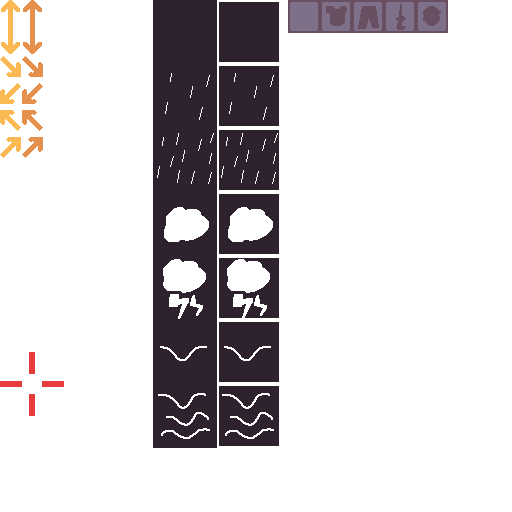
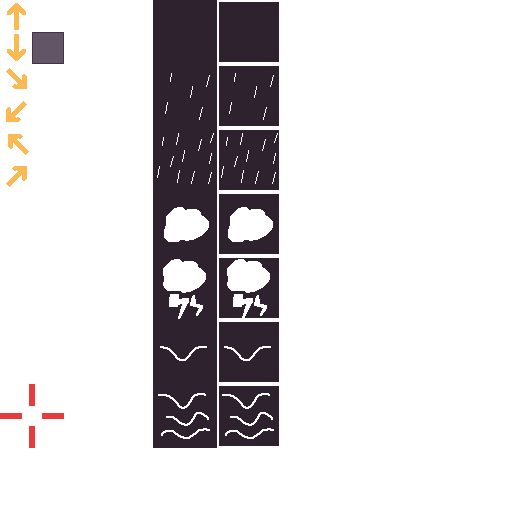
v0.6.017

Changed region(s): [[0.0, 0.0, 0.125, 0.375], [0.5625, 0.0, 0.875, 0.0625], [0.0, 0.6875, 0.125, 0.875]]

diff --git a/gamestream_flutter/lib/isometric/ui/columns/build_column_selected_node.dart b/gamestream_flutter/lib/isometric/ui/columns/build_column_selected_node.dart
@@ -58,7 +58,6 @@ Widget buildEditorSelectedNode() =>
                 left: 27 + _shiftX,
                 action: GameEditor.cursorZDecrease,
                 iconType: IconType.Arrows_Down_Yellow,
-                iconTypeMouseOver: IconType.Arrows_Down_Orange,
                 hint: "Shift + Arrow Down",
               ),
               buildPositionedIconArrow(
@@ -66,7 +65,6 @@ Widget buildEditorSelectedNode() =>
                 left: 3 + _shiftY,
                 action: GameEditor.cursorRowDecrease,
                 iconType: IconType.Arrows_North_Yellow,
-                iconTypeMouseOver: IconType.Arrows_North_Orange,
                 hint: "Arrow Up",
               ),
               // Positioned(
@@ -87,7 +85,6 @@ Widget buildEditorSelectedNode() =>
                 left: 50 + _shiftX,
                 action: GameEditor.cursorColumnDecrease,
                 iconType: IconType.Arrows_East_Yellow,
-                iconTypeMouseOver: IconType.Arrows_East_Orange,
                 hint: "Arrow Right",
               ),
               // Positioned(
@@ -114,7 +111,6 @@ Widget buildEditorSelectedNode() =>
                 left: 50 + _shiftX,
                 action: GameEditor.cursorRowIncrease,
                 iconType: IconType.Arrows_South_Yellow,
-                iconTypeMouseOver: IconType.Arrows_South_Orange,
                   hint: "Arrow Down"
               ),
               // Positioned(
@@ -135,7 +131,6 @@ Widget buildEditorSelectedNode() =>
                   left: 27 + _shiftX,
                   action: GameEditor.cursorZIncrease,
                   iconType: IconType.Arrows_Up_Yellow,
-                  iconTypeMouseOver: IconType.Arrows_Up_Orange,
                   hint: "Arrow Down"
               ),
               // Positioned(
@@ -158,17 +153,24 @@ Widget buildEditorSelectedNode() =>
               //   //     hint: "Shift + Arrow Up"
               //   // )),
               // ),
-              Positioned(
-                top: 50 + _shiftY,
-                left: 0 + _shiftX,
-                child: onPressed(
+              buildPositionedIconArrow(
+                  top: 50 + _shiftY,
+                  left: 0 + _shiftX,
                   action: GameEditor.cursorZIncrease,
-                  child: onMouseOver(builder: (BuildContext context, bool mouseOver) => GameUI.buildAtlasIconType(
-                      mouseOver ? IconType.Arrows_West_Orange : IconType.Arrows_West_Yellow
-                  )),
-                  hint: "Arrow Left",
-                ),
+                  iconType: IconType.Arrows_West_Yellow,
+                  hint: "Arrow Left"
               ),
+              // Positioned(
+              //   top: 50 + _shiftY,
+              //   left: 0 + _shiftX,
+              //   child: onPressed(
+              //     action: GameEditor.cursorZIncrease,
+              //     child: onMouseOver(builder: (BuildContext context, bool mouseOver) => GameUI.buildAtlasIconType(
+              //         mouseOver ? IconType.Arrows_West_Orange : IconType.Arrows_West_Yellow
+              //     )),
+              //     hint: "Arrow Left",
+              //   ),
+              // ),
             ],
           ),
         ),
@@ -181,7 +183,6 @@ Widget buildPositionedIconArrow({
   required double left,
   required Function action,
   required int iconType,
-  required int iconTypeMouseOver,
   required String hint,
 }) =>
   Positioned(
@@ -189,9 +190,12 @@ Widget buildPositionedIconArrow({
     left: left,
     child: onPressed(
       action: action,
-      child: onMouseOver(builder: (BuildContext context, bool mouseOver) => GameUI.buildAtlasIconType(
-          mouseOver ? iconTypeMouseOver : iconType
-      )),
+      child: onMouseOver(builder: (BuildContext context, bool mouseOver) =>
+          GameUI.buildAtlasIconType(
+            iconType,
+            color: mouseOver ? Colors.black38.value : Colors.white.value,
+          )
+      ),
       hint: hint,
     ),
   );

diff --git a/gamestream_flutter/lib/game_inventory_ui.dart b/gamestream_flutter/lib/game_inventory_ui.dart
@@ -14,8 +14,7 @@ class GameInventoryUI {
   static const Equipped_Item_Scale = Slot_Scale * Engine.GoldenRatio_1_618;
   static const Columns_Per_Row = 7;
   static const Inventory_Width = Slot_Size * Slot_Scale * Columns_Per_Row;
-
-  static final atlasIconSlotEmpty = buildAtlasIconSlotEmpty();
+  static final atlasIconSlotEmpty = GameUI.buildIconSlotEmpty();
 
   static Widget buildInventoryUI() =>
       GameUI.buildDialog(
@@ -259,56 +258,6 @@ class GameInventoryUI {
         srcWidth: Slot_Size,
         srcHeight: Slot_Size,
         scale: scale,
-      );
-
-  static Widget buildAtlasIconSlotEmpty() =>
-      Engine.buildAtlasImage(
-        image: GameImages.atlasIcons,
-        srcX: 288,
-        srcY: 0,
-        srcWidth: Slot_Size,
-        srcHeight: Slot_Size,
-        scale: Slot_Scale,
-      );
-
-  static Widget buildAtlasIconSlotArmour() =>
-      Engine.buildAtlasImage(
-        image: GameImages.atlasIcons,
-        srcX: 320,
-        srcY: 0,
-        srcWidth: Slot_Size,
-        srcHeight: Slot_Size,
-        scale: 1.0,
-      );
-
-  static Widget buildAtlasIconSlotLegs() =>
-      Engine.buildAtlasImage(
-        image: GameImages.atlasIcons,
-        srcX: 352,
-        srcY: 0,
-        srcWidth: Slot_Size,
-        srcHeight: Slot_Size,
-        scale: 1.0,
-      );
-
-  static Widget buildAtlasIconSlotWeapon() =>
-      Engine.buildAtlasImage(
-        image: GameImages.atlasIcons,
-        srcX: 384,
-        srcY: 0,
-        srcWidth: Slot_Size,
-        srcHeight: Slot_Size,
-        scale: 1.0,
-      );
-
-  static Widget buildAtlasIconSlotHead() =>
-      Engine.buildAtlasImage(
-        image: GameImages.atlasIcons,
-        srcX: 416,
-        srcY: 0,
-        srcWidth: Slot_Size,
-        srcHeight: Slot_Size,
-        scale: 1.0,
       );
 
   static Widget buildPositionedContainerItemTypeInformation(int itemType){

diff --git a/gamestream_flutter/lib/game_atlas.dart b/gamestream_flutter/lib/game_atlas.dart
@@ -49,35 +49,27 @@ class AtlasItems {
 
 class AtlasIcons {
 
+  static const Size = 32.0;
+
   static double getSrcX(int itemType) => const <int, double> {
-    IconType.Home: 44,
-    IconType.Fullscreen: 93,
-    IconType.Zoom: 48,
+    IconType.Zoom: Size * 1,
+    IconType.Home: Size * 2,
+    IconType.Fullscreen: Size * 3,
+    IconType.Slot: Size * 1,
   }[itemType] ?? 0;
 
   static double getSrcY(int itemType) => const  <int, double> {
-    IconType.Arrows_Up_Yellow: 0,
-    IconType.Arrows_Down_Yellow: 26,
-    IconType.Arrows_North_Yellow: 110,
-    IconType.Arrows_East_Yellow: 137,
-    IconType.Arrows_West_Yellow: 83,
-    IconType.Arrows_South_Yellow: 56,
-    IconType.Arrows_Up_Orange: 0,
-    IconType.Arrows_Down_Orange: 26,
-    IconType.Arrows_North_Orange: 110,
-    IconType.Arrows_East_Orange: 137,
-    IconType.Arrows_West_Orange: 83,
-    IconType.Arrows_South_Orange: 56,
+    IconType.Arrows_Up_Yellow: Size * 0,
+    IconType.Arrows_Down_Yellow: Size * 1,
+    IconType.Arrows_North_Yellow: Size * 2,
+    IconType.Arrows_East_Yellow: Size * 3,
+    IconType.Arrows_West_Yellow: Size * 4,
+    IconType.Arrows_South_Yellow: Size * 5,
     IconType.Home: 0,
     IconType.Fullscreen: 0,
-    IconType.Zoom: 48,
-    IconType.Slot: 64,
+    IconType.Zoom: 0,
+    IconType.Slot: Size * 1,
   }[itemType] ?? 0;
-
-  static double getSize(int itemType) => const <int, double> {
-    IconType.Home: 48,
-    IconType.Fullscreen: 48,
-  }[itemType] ?? 32;
 }
 
 class AtlasNodeX {

diff --git a/gamestream_flutter/lib/game_render.dart b/gamestream_flutter/lib/game_render.dart
@@ -1104,7 +1104,7 @@ class GameRender {
         canvas: canvas,
         image: GameImages.atlasIcons,
         srcX: 0,
-        srcY: 224,
+        srcY: 256,
         srcWidth: 64,
         srcHeight: 64,
         dstX: GameIO.getCursorScreenX(),
@@ -1118,7 +1118,7 @@ class GameRender {
       canvas: canvas,
       image: GameImages.atlasIcons,
       srcX: 0,
-      srcY: 288,
+      srcY: 320,
       srcWidth: 64,
       srcHeight: 64,
       dstX: GameIO.getCursorScreenX(),
@@ -1127,10 +1127,9 @@ class GameRender {
     );
   }
 
-
   static void canvasRenderCursorCrossHair(ui.Canvas canvas, double range){
     const srcX = 0;
-    const srcY = 160;
+    const srcY = 192;
     Engine.renderExternalCanvas(
         canvas: canvas,
         image: GameImages.atlasIcons,
@@ -1179,7 +1178,7 @@ class GameRender {
 
   static void canvasRenderCursorCrossHairRed(ui.Canvas canvas, double range){
     const srcX = 0;
-    const srcY = 352;
+    const srcY = 384;
     Engine.renderExternalCanvas(
         canvas: canvas,
         image: GameImages.atlasIcons,

diff --git a/gamestream_flutter/lib/game_ui.dart b/gamestream_flutter/lib/game_ui.dart
@@ -285,14 +285,18 @@ class GameUI {
           child: buildAtlasIconType(IconType.Home)
       );
 
-  static Widget buildAtlasIconType(int iconType, {double scale = 1}) =>
+  static Widget buildIconSlotEmpty() =>
+      buildAtlasIconType(IconType.Slot, scale: GameInventoryUI.Slot_Scale);
+
+  static Widget buildAtlasIconType(int iconType, {double scale = 1, int color = 1}) =>
       Engine.buildAtlasImage(
         image: GameImages.atlasIcons,
         srcX: AtlasIcons.getSrcX(iconType),
         srcY: AtlasIcons.getSrcY(iconType),
-        srcWidth: AtlasIcons.getSize(iconType),
-        srcHeight: AtlasIcons.getSize(iconType),
+        srcWidth: AtlasIcons.Size,
+        srcHeight: AtlasIcons.Size,
         scale: scale,
+        color: color,
       );
 
   static Widget buildAtlasItemType(int itemType, {double scale = 1}) =>

diff --git a/gamestream_flutter/lib/enums/icon_type.dart b/gamestream_flutter/lib/enums/icon_type.dart
@@ -5,12 +5,6 @@ class IconType {
   static const Arrows_West_Yellow = 3;
   static const Arrows_North_Yellow = 4;
   static const Arrows_East_Yellow = 5;
-  static const Arrows_Up_Orange = 6;
-  static const Arrows_Down_Orange = 7;
-  static const Arrows_South_Orange = 8;
-  static const Arrows_West_Orange = 9;
-  static const Arrows_North_Orange = 10;
-  static const Arrows_East_Orange = 11;
   static const Home = 12;
   static const Fullscreen = 13;
   static const Zoom = 14;

diff --git a/dart-lemon-engine/lib/engine.dart b/dart-lemon-engine/lib/engine.dart
@@ -1291,6 +1291,7 @@ class Engine {
     required double srcWidth,
     required double srcHeight,
     double scale = 1.0,
+    int color = 1,
   }) =>
       Container(
         alignment: Alignment.center,
@@ -1308,6 +1309,7 @@ class Engine {
                   dstX: 0,
                   dstY: 0,
                   scale: scale,
+                  color: color,
                 )
         ),
       );

diff --git a/gamestream_flutter/lib/game_ui_interact.dart b/gamestream_flutter/lib/game_ui_interact.dart
@@ -97,7 +97,7 @@ class GameUIInteract {
         children.add(
             GameInventoryUI.buildPositionGridElement(
                 index: i,
-                child: GameInventoryUI.buildAtlasIconSlotEmpty(),
+                child: GameInventoryUI.atlasIconSlotEmpty,
             ),
         );
       }

diff --git a/bleed-common/lib/version.dart b/bleed-common/lib/version.dart
@@ -1,1 +1,1 @@
-const version = 'v0.6.016';
+const version = 'v0.6.017';

diff --git a/bleed-server/bin/common/version.dart b/bleed-server/bin/common/version.dart
@@ -1,1 +1,1 @@
-const version = 'v0.6.016';
+const version = 'v0.6.017';

diff --git a/gamestream_flutter/README.md b/gamestream_flutter/README.md
@@ -20,24 +20,24 @@
 [ ] select skin color
 [ ] separate head-type and helm-type
 [ ] fix animation fire handgun
-
-[Afternoon-Tasks]
+[ ] item weight
+[ ] inventory max weight
 [ ] optimize network - compile all characters into single server_response
 [ ] fix editor add remove columns
 [ ] add mobile share (whatsapp, facebook) button
 [ ] fix character state changing
 [ ] highlight cursor gameobject item
 [ ] refactor AtlasNodeX.mapNodeType(nodeType),
-
-[Morning-Tasks]
 [ ] experience
 [ ] improve grid invisibility
 [ ] recipes
 [ ] smith (for crafting recipes)
 [ ] consume food to heal
+[ ] ui error message
 
 [current]
-[ ] ui error message
+[ ] fix editor icons
+
 
 10.11.2022
 [x] item sell
